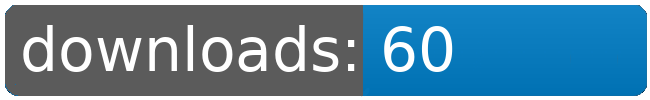
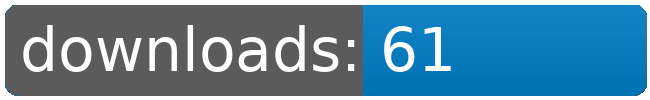
dl log written

Changed region(s): [[0.6462, 0.24, 0.7077, 0.72]]

diff --git a/README.md b/README.md
@@ -87,8 +87,8 @@
 		<td>57</td>
 		<td>58</td>
 		<td>60</td>
-		<td>60</td>
-		<td></td>
+		<td>61</td>
+		<td>+ 1</td>
 	</tr>
 	<tr>
 		<td>Solar.Sails</td>
@@ -120,8 +120,8 @@
 		<td></td>
 		<td></td>
 		<td></td>
-		<td>56477</td>
-		<td>129</td>
+		<td>56478</td>
+		<td>130</td>
 	</tr>
 </table>
 </sub></sup>
@@ -234,8 +234,8 @@
 		<td>57</td>
 		<td>58</td>
 		<td>60</td>
-		<td>60</td>
-		<td></td>
+		<td>61</td>
+		<td>+ 1</td>
 	</tr>
 	<tr>
 		<td></td>
@@ -245,8 +245,8 @@
 		<td></td>
 		<td></td>
 		<td></td>
-		<td>56477</td>
-		<td>129</td>
+		<td>56478</td>
+		<td>130</td>
 	</tr>
 </table>
 </sub></sup>
